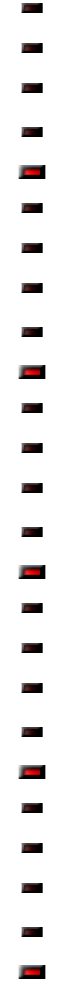
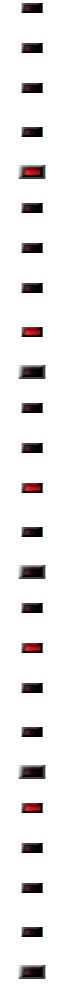
altered stage button, altered pluginprocessor,plugin

diff --git a/source/plugin.cpp b/source/plugin.cpp
@@ -25,7 +25,7 @@ tresult PLUGIN_API Phaser::initialize (FUnknown* context){
 	//amount of notchfilters the signal is going through, 0 is off
 	parameters.addParameter(new RangeParameter(STR16("Stages"), kStagesId, STR16("Stages"), 0, 4, 0));
 	//effect of the notchfilters on the basis
-	parameters.addParameter(new RangeParameter(STR16("Depth"), kDepthId, STR16("dB"), -100, 6, -100));
+	parameters.addParameter(new RangeParameter(STR16("Depth"), kDepthId, STR16("dB"), 0, 100, 50));
 
 	// fix for RangeParameter (default value is not yet set)
 	for(int i = 0; i < parameters.getParameterCount(); i++){
@@ -45,8 +45,8 @@ Phaser::Phaser ()
 void Phaser::startProcessing(int numChannels, SampleRate sampleRate){
 	this->numChannels = numChannels;
 	this->sampleRate = sampleRate;
-	leftProcessor.initialize(sampleRate);
-	rightProcessor.initialize(sampleRate);
+	leftProcessor.initialize(sampleRate,50,0,50,50,0);
+	rightProcessor.initialize(sampleRate, 50, 0, 50, 50, 0);
 }
 tresult PLUGIN_API Phaser::process (ProcessData& data)
 {
@@ -59,20 +59,23 @@ tresult PLUGIN_API Phaser::process (ProcessData& data)
     }
     if(hasInputParameterChanged(data, kResonanceId)) {
         float paramValue = getInputParameterChange(data,kResonanceId);
-		
-        
+		//hack
+		setOutputParameterChange(data, kResonanceId, floor(paramValue));
     }
 	if(hasInputParameterChanged(data, kSpeedId)) {
         float paramValue = getInputParameterChange(data,kSpeedId);
-        
+		//hack
+		setOutputParameterChange(data, kSpeedId, floor(paramValue));
     }
 	if(hasInputParameterChanged(data, kStagesId)) {
         float paramValue = getInputParameterChange(data,kStagesId);
-        
+		//hack
+		setOutputParameterChange(data, kStagesId, floor(paramValue));
     }
 	if(hasInputParameterChanged(data, kDepthId)) {
         float paramValue = getInputParameterChange(data,kDepthId);
-        
+		//hack
+		setOutputParameterChange(data, kDepthId, floor(paramValue));
     }
     
  	if (numChannels > 0){

diff --git a/source/PluginProcessor.h b/source/PluginProcessor.h
@@ -2,16 +2,35 @@
 #define PLUGIN_PROCESSOR_H
 
 #include "SecondOrderFilter.h"
-
+/**
+ * Phaser plugin processor
+ * A phaser is an audio effect, for a description see here: https://en.wikipedia.org/wiki/Phaser_(effect) 
+ * this effect is made for a vst host to be used as a realtime audio effect on an instrument like a guitar.
+ * 
+ * uses a NotchFilter and a Oscillator for the effect
+ * 
+ * @sampleRate: sampleRate of the audio stream
+ * @mix the amount of the processed part of the end result
+ * @depth strength of the notchfilter
+ * @resonance: amount; further emphasise the sound by adding a feedback from a previous old (processed) signal
+ * @oscillatorFrequency: The frequency of the effect (set by setSpeed)
+ * @stages: How often the signal is processed by the notch-filter
+ **/
 class PluginProcessor{
 public:
 	PluginProcessor();
 	~PluginProcessor();
-	void initialize(float sampleRate);
+	void initialize(float sampleRate, unsigned short mix, unsigned short resonance, unsigned short speed, unsigned short depth, unsigned short stages);
 	float processOneSample(float);
-	void setMix(float mix);
 	void process(float* input, float*output, int numberOfSamples);
 
+	//setter methods
+	void setMix(unsigned short mix);
+	void setGain(unsigned short gain);
+	void setResonance(unsigned short resonance);
+	void setSpeed(unsigned short speed);
+	void setDepth(unsigned short depth);
+	void setStages(unsigned short stages);
 private:
 	double getTargetFrequency();
 
@@ -25,6 +44,10 @@ private:
 
 	unsigned int depth;
 	float gain;
+	
+	unsigned short mix;
+	unsigned short resonance;
+	unsigned short stages;
 
 	double m_fq;
 

diff --git a/source/PluginProcessor.cpp b/source/PluginProcessor.cpp
@@ -37,8 +37,13 @@ PluginProcessor::~PluginProcessor(){
 	delete shiftedOutputs;
 }
 
-void PluginProcessor::initialize(float sampleRate){
+void PluginProcessor::initialize(float sampleRate, unsigned short mix, unsigned short resonance, unsigned short speed, unsigned short depth, unsigned short stages){
 	this->sampleRate = sampleRate;
+	this->mix = mix;
+    this->resonance = resonance; 
+	this-> oscillatorFrequency = speed;
+    this->depth = depth; 
+    this->stages = stages; 
 	sof->initialize(sampleRate);
 }
 
@@ -132,9 +137,22 @@ float PluginProcessor::processOneSample(float input){
 	return output*gain;// *outputMix + (1-outputMix)*input;
 }
 
-void PluginProcessor::setMix(float mix) {
-	gain = mix;
+void PluginProcessor::setMix(unsigned short mix) {
+    this->mix = mix;
 }
+void PluginProcessor::setResonance(unsigned short resonance) {
+    this->resonance = resonance;
+} 
+void PluginProcessor::setSpeed(unsigned short speed) {
+    this->oscillatorFrequency = speed;
+}
+void PluginProcessor::setDepth(unsigned short depth) {
+    this->depth = depth;
+} 
+void PluginProcessor::setStages(unsigned short stages) {
+    this->stages = stages;
+} 
+
 
 void PluginProcessor::process(float* input, float*output, int numberOfSamples){
 	for(int i = 0; i < numberOfSamples; i++){
